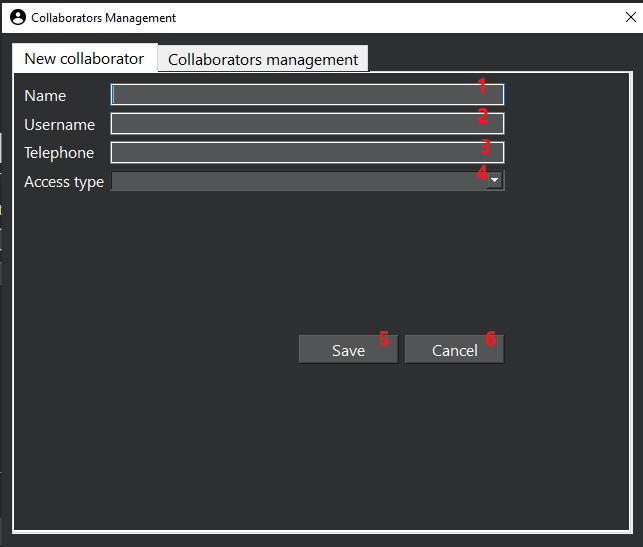
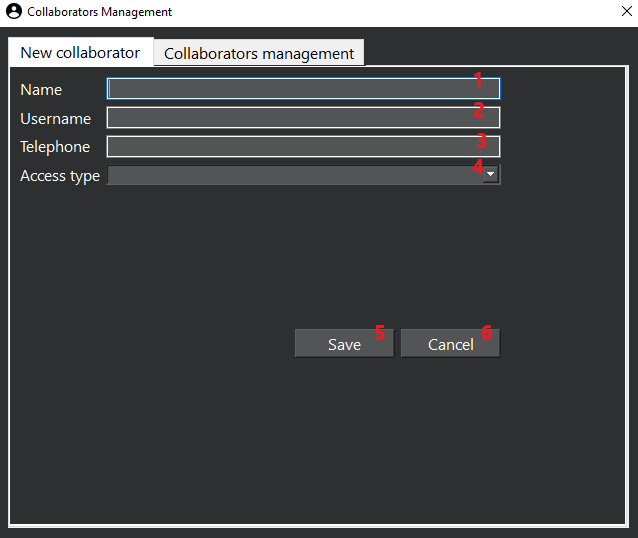
Update README nd create shortcut

diff --git a/mainwindow.cpp b/mainwindow.cpp
@@ -66,6 +66,7 @@ MainWindow::~MainWindow()
 
 void MainWindow::on_pushButton_Block_clicked()
 {
+    // Check if user is logged
     if(!userLogged)
     {
         LoginWindow loginWindow;

diff --git a/README.md b/README.md
@@ -18,5 +18,43 @@ This window serves as a simple login interface. Users are required to enter thei
 This is the 'Define Password' window. When a user is created, their password is set to '1234' by default. However, upon logging into the program for the first time, it is necessary to redefine the password. This window will appear to prompt the user to create a new password. The password must be entered in both the 'Password' **(1)** and 'Confirm Password' **(3)** fields, ensuring they match and are at least 6 characters in length. To reveal or conceal the password entered in each field, you can use buttons **2** and **4**. Once the password is created, you can click on the 'Confirm' button **(5)** to finalize the process.
 
 
+### 3. Collaborator management window
+
+This window is designed to manage your collaborators. It includes two tabs: one for creating a new collaborator, and the other for editing collaborator information, deleting collaborators, resetting passwords, or viewing sales.
+
+#### 3.1. New collaborator tab
+
+![New collaborator tab][new_collaborator_tab]
+
+This tab is dedicated to creating new collaborators. To proceed, enter the collaborator's name **(1)**, an username for login purposes **(2)**, the telephone number **(3)**, and the type of access **(4)**. 
+
+Both the name and the username must exceed 6 characters, while the telephone number should contain 11 digits. 
+
+Regarding access types, there are three options: 
+
+* **A** = Full access
+* **B** = Creation privileges without editing capabilities
+* **C** = Access limited to the sales page only.
+
+After entering the collaborator's information, click on the "Save" button **(5)** to create the new collaborator, or "Cancel" **(6)** to abort the operation.
+
+**Important:** When a new collaborator is created, their login will be performed using the created username and the initial password "1234". This password should be updated by the collaborator after their first login.
+
+#### 3.2. Collaborators management tab
+
+![Collaborators management tab][collaborators_management_tab]
+
+This tab is used to manage collaborators. After creating new collaborators, the table **(11)** will display a list of collaborators with their primary information. To view more details about a collaborator, select the corresponding row in the table, and the fields "Name" **(1)**, "Telephone" **(2)**, and "Access type" **(3)** will then update to show the information for the selected collaborator.
+
+If you wish to update the collaborator's information, first select the collaborator from table **(11)**, then modify the relevant field. modify the relevant field **(1, 2, or 3)** and then click on the "Save" button **(4)**. The same rules that apply to creating a collaborator must be followed. 
+
+If you wish to remove a collaborator, first select the collaborator from table **(11)**, then click on the "Remove" button **(5)**.
+
+To view the sales of a collaborator, select the collaborator from the table **(11)** and click on the "See sales" button **(6)**. A message box will display the sales IDs associated with this collaborator or a message indicating that the collaborator hasn't made any sales yet. For further details about a specific sale, please refer to the **"Sales Management window"**.
+
+To reset a collaborator's password, first select the collaborator from the table **(11)**, then click on the "Reset Password" button **(7)**. This action will change the collaborator's password to the default password "1234". Upon their next login, the collaborator will be required to use this password and then set a new password.
+
 [login_window]: images/screenshots/login_window.png
 [define_password_window]: images/screenshots/define_password_window.png
+[new_collaborator_tab]: images/screenshots/new_collaborator.png
+[collaborators_management_tab]: images/screenshots/collaborators_management.png
